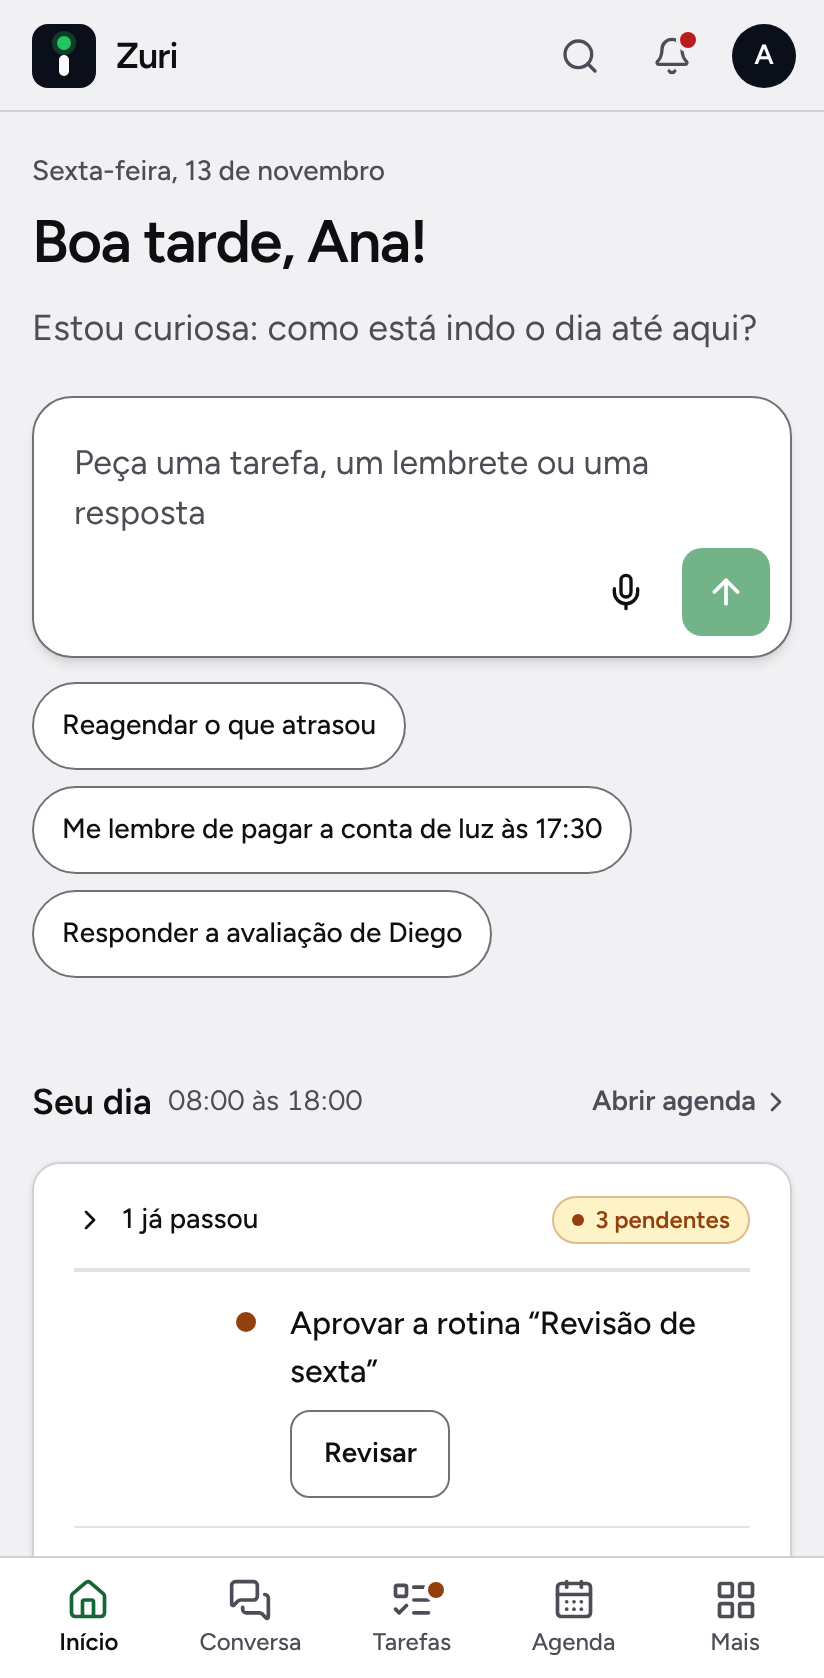
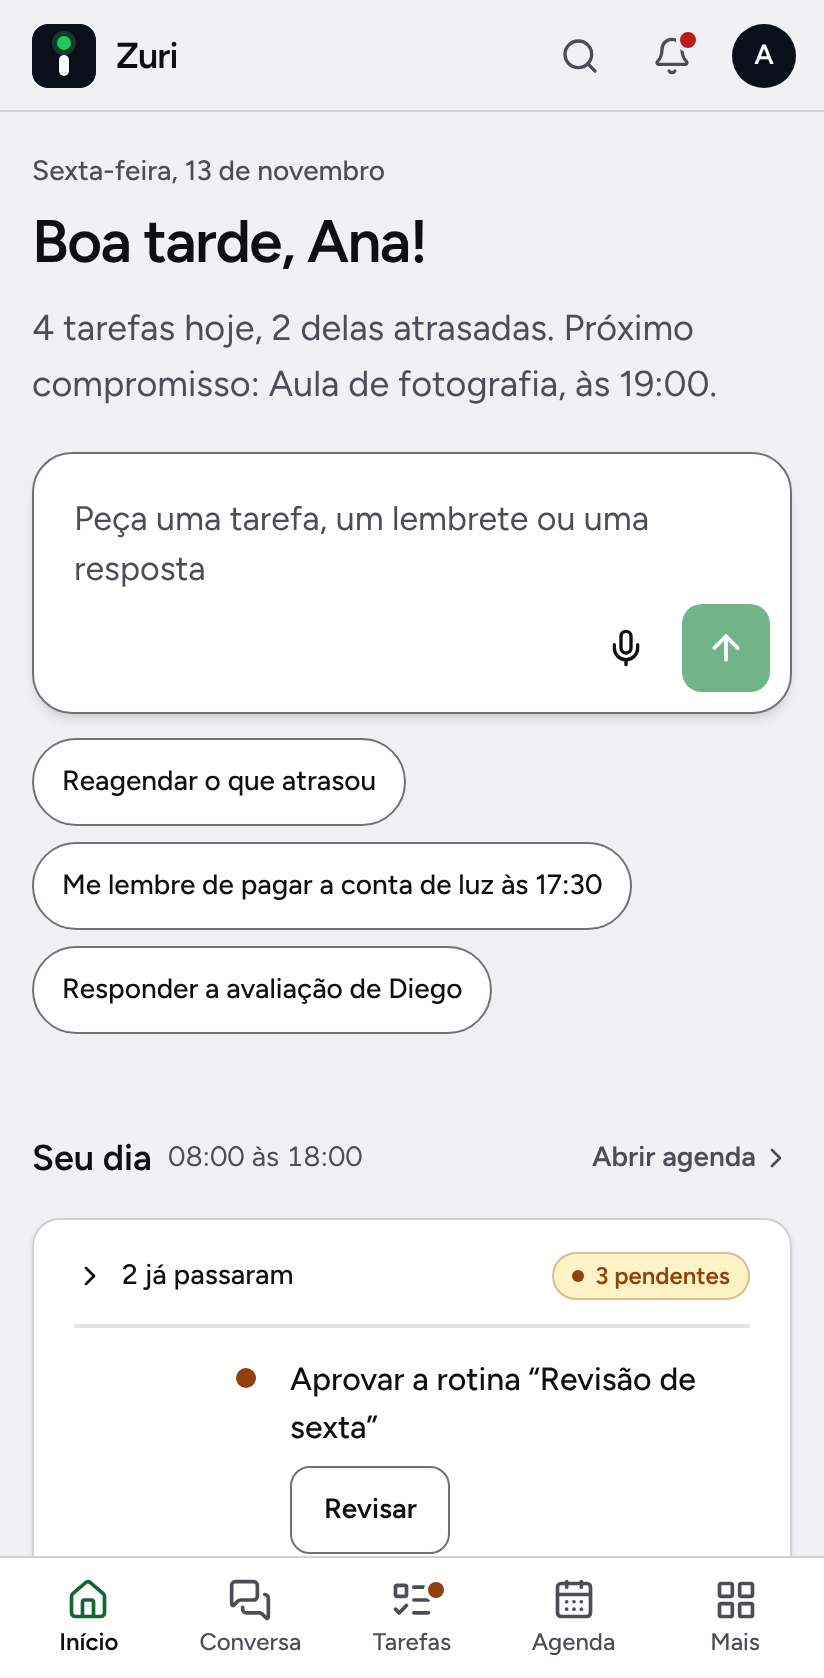
feat(inicio): resumo do dia sob o cumprimento e capturas novas (S22)
Claude-Session: https://claude.ai/code/session_012XDDEf5uAMwFYCarA1vLvU

diff --git a/apps/web/src/pages/home/DayCard.tsx b/apps/web/src/pages/home/DayCard.tsx
@@ -46,7 +46,14 @@ function useWindow() {
  * owner stays on top. The list arranges itself again every 30 seconds without
  * taking the focus from whoever is using the keyboard.
  */
-export function DayCard({ automations, onNewDay }: { automations: readonly Automation[]; onNewDay: () => void }) {
+/** What the line under the greeting says about today (PR S22): the open tasks, how many are late, the next event. */
+export interface DaySummary {
+  tasks: number;
+  late: number;
+  next: { title: string; at: number } | null;
+}
+
+export function DayCard({ automations, onNewDay, onSummary }: { automations: readonly Automation[]; onNewDay: () => void; onSummary?: (summary: DaySummary | null) => void }) {
   const { t, plural, locale, timeZone } = useI18n();
   const qc = useQueryClient();
   const pastId = useId();
@@ -115,6 +122,23 @@ export function DayCard({ automations, onNewDay }: { automations: readonly Autom
 
   const live = dayItems({ tasks: (tasks.data?.tasks ?? []).filter((task) => task.status !== "done"), events: events.data?.events ?? [], automations }, now, timeZone);
   const liveKeys = new Set(live.map((item) => item.key));
+
+  // The summary from the same lists, told to the page only when it changes (and only once the tasks are read).
+  const nowMs = now.getTime();
+  const openTasks = live.filter((item) => item.kind === "task");
+  const nextEvent = live.filter((item) => item.kind === "event" && item.at !== null && item.at > nowMs && localDate(item.at, timeZone) === today).sort((a, b) => (a.at ?? 0) - (b.at ?? 0))[0];
+  const summary: DaySummary | null = tasks.isSuccess
+    ? {
+        tasks: openTasks.length,
+        late: openTasks.filter((item) => item.daysLate > 0 || (item.at !== null && item.at < nowMs)).length,
+        next: nextEvent?.at ? { title: nextEvent.title, at: nextEvent.at } : null,
+      }
+    : null;
+  const summaryKey = JSON.stringify(summary);
+  // biome-ignore lint/correctness/useExhaustiveDependencies: the key stands for the summary, so a redraw with the same day tells nothing.
+  useEffect(() => {
+    onSummary?.(summary);
+  }, [summaryKey, onSummary]);
   // A task marked done here hides the list's copy; one unmarked shows from here only until the list has it again.
   const done = new Set([...marked].filter(([, entry]) => entry.done).map(([key]) => key));
   const items = [...live.filter((item) => !done.has(item.key)), ...[...marked].filter(([key, entry]) => entry.done || !liveKeys.has(key)).map(([, entry]) => entry.item)];

diff --git a/apps/web/src/pages/home/HomeBody.tsx b/apps/web/src/pages/home/HomeBody.tsx
@@ -12,7 +12,7 @@ import { api } from "../../lib/api.ts";
 import { dueInputs } from "../../lib/due.ts";
 import { addMessages, useI18n } from "../../lib/i18n.tsx";
 import { dayOffset } from "../../lib/recents.ts";
-import { DayCard, useDayWindow } from "./DayCard.tsx";
+import { DayCard, type DaySummary, useDayWindow } from "./DayCard.tsx";
 
 // Loaded on demand by the home page, with its pt-BR texts (rule P11).
 addMessages(ptBRHome);
@@ -36,18 +36,33 @@ export function HomeBody({ greetingSlot }: { greetingSlot: ReactNode }) {
   // At midnight "Amanhã" is another day: the lists under this one are drawn again.
   const [, turn] = useState(0);
   const newDay = useCallback(() => turn((count) => count + 1), []);
+  const [day, setDay] = useState<DaySummary | null>(null);
   return (
     <>
-      <Greeting placeholder={greetingSlot} />
+      <Greeting placeholder={greetingSlot} summary={useSummaryLine(day)} />
       <Ask />
       <Block title={t("web.home.day.title")} note={window} link={<More to="/agenda" label={t("web.home.day.agenda")} />}>
-        <DayCard automations={list} onNewDay={newDay} />
+        <DayCard automations={list} onNewDay={newDay} onSummary={setDay} />
       </Block>
       <Block title={t("web.home.next.title")} link={<More to="/tarefas" label={t("web.home.next.link")} />}>
         <NextDays automations={list} />
       </Block>
     </>
   );
+}
+
+/** "4 tarefas hoje, 1 delas atrasada. Próximo compromisso: Vistoria, às 09:00." Null on a day with nothing: the agent's line stays. */
+function useSummaryLine(day: DaySummary | null): string | null {
+  const { t, plural, timeZone } = useI18n();
+  if (!day) return null;
+  const parts: string[] = [];
+  if (day.tasks > 0) {
+    if (day.late === 0) parts.push(plural("web.home.summary.tasks", day.tasks));
+    else if (day.late === day.tasks) parts.push(plural("web.home.summary.lateAll", day.late));
+    else parts.push(plural("web.home.summary.lateSome", day.late, { total: day.tasks }));
+  }
+  if (day.next) parts.push(t("web.home.summary.event", { title: day.next.title, time: dueInputs(new Date(day.next.at).toISOString(), timeZone).time }));
+  return parts.length ? parts.join(" ") : null;
 }
 
 /** The text of each kind of suggestion: always the interface's own, with the server's blanks. */

diff --git a/apps/web/src/components/Greeting.tsx b/apps/web/src/components/Greeting.tsx
@@ -28,11 +28,11 @@ function useNow(timeZone: string): Date {
 /**
  * The home page's title: the day, good morning, afternoon or evening by the owner's
  * clock (their zone, not the device's), with their name when they gave one,
- * and a line in the agent's voice that changes every day.
+ * and a line in the agent's voice that changes every day, or the day's summary when it has one.
  */
 // The placeholder comes from the page: importing ui.tsx here would make the bundler split it
 // out of the first load into a shared chunk (armadilhas.md, "Pacote da interface").
-export function Greeting({ placeholder }: { placeholder: ReactNode }) {
+export function Greeting({ placeholder, summary }: { placeholder: ReactNode; summary?: string | null }) {
   const { t, locale, timeZone } = useI18n();
   // Same query as the session's: already in memory, no second request.
   const settings = useQuery({ queryKey: SETTINGS_KEY, queryFn: () => api<Settings>("/settings"), staleTime: 5 * 60_000 });
@@ -52,7 +52,12 @@ export function Greeting({ placeholder }: { placeholder: ReactNode }) {
     <header className="mb-5 motion-safe:animate-rise">
       <p className="mb-1.5 text-sm font-medium text-fg-muted first-letter:uppercase">{date}</p>
       <h1 className="text-3xl leading-tight font-semibold tracking-tight break-words md:text-4xl">{name ? t(titles.named, { name }) : t(titles.plain)}</h1>
-      {lineKey && <p className="mt-2.5 max-w-[56ch] text-lg text-fg-muted">{t(lineKey)}</p>}
+      {/* The day in one line when it has something (PR S22), otherwise the agent's line of the day. */}
+      {summary ? (
+        <p className="mt-2.5 max-w-[56ch] text-lg text-fg-muted">{summary}</p>
+      ) : (
+        lineKey && <p className="mt-2.5 max-w-[56ch] text-lg text-fg-muted">{t(lineKey)}</p>
+      )}
     </header>
   );
 }

diff --git a/tests/e2e/nova-ui.spec.ts b/tests/e2e/nova-ui.spec.ts
@@ -94,6 +94,23 @@ test("a review without a name reads as the new review", async ({ page }) => {
   await expect(page.getByRole("list", { name: "Sugestões a partir do seu dia" }).getByRole("button")).toHaveText(["Responder a avaliação nova"]);
 });
 
+test("the line under the greeting sums up the day, and keeps Zuri's line on a day with nothing", async ({ page }) => {
+  // Frozen at 10:00 in São Paulo, so "today" and "late" are the same for the page and for this test.
+  const now = new Date("2026-11-13T13:00:00Z");
+  await page.clock.setFixedTime(now);
+  const task = (id: string, dueAt: string) => ({ id, title: `Tarefa ${id}`, description: "", status: "todo", priority: "medium", dueAt, projectId: null, createdAt: dueAt, updatedAt: dueAt, completedAt: null });
+  let tasks = [task("a", "2026-11-12T15:00:00.000Z"), task("b", "2026-11-13T20:00:00.000Z"), task("c", "2026-11-13T21:00:00.000Z")];
+  await page.route(/\/api\/tasks\?(.*&)?view=today/, (route) => route.fulfill({ json: { tasks } }));
+  await openHome(page);
+  const lede = page.locator("header p.text-lg");
+  await expect(lede).toHaveText("3 tarefas hoje, uma delas atrasada.");
+  tasks = [];
+  await page.reload();
+  await expect(page.getByRole("heading", { name: "Seu dia" })).toBeVisible();
+  await expect(lede).not.toHaveText(/tarefas? hoje|atrasada/);
+  await expect(lede).not.toBeEmpty();
+});
+
 test("the home page shows no suggestions when the server has none or fails", async ({ page }) => {
   await page.route("**/api/home/suggestions", (route) => route.fulfill({ status: 500, json: { code: "INTERNAL_ERROR", message: "x" } }));
   await openHome(page);

diff --git a/packages/shared/i18n/pt-BR-home.ts b/packages/shared/i18n/pt-BR-home.ts
@@ -6,6 +6,13 @@ export const ptBRHome = {
   "web.home.placeholder": "Peça uma tarefa, um lembrete ou uma resposta",
   "web.home.send": "Enviar para a Zuri",
   "web.home.ideas": "Sugestões a partir do seu dia",
+  "web.home.summary.tasks.one": "Uma tarefa hoje.",
+  "web.home.summary.tasks.other": "{count} tarefas hoje.",
+  "web.home.summary.lateAll.one": "Uma tarefa atrasada.",
+  "web.home.summary.lateAll.other": "{count} tarefas atrasadas.",
+  "web.home.summary.lateSome.one": "{total} tarefas hoje, uma delas atrasada.",
+  "web.home.summary.lateSome.other": "{total} tarefas hoje, {count} delas atrasadas.",
+  "web.home.summary.event": "Próximo compromisso: {title}, às {time}.",
   "web.home.idea.late": "Reagendar o que atrasou",
   "web.home.idea.bill": "Me lembre de pagar {name} às {time}",
   "web.home.idea.review": "Responder a avaliação de {name}",

diff --git a/packages/shared/i18n/en.ts b/packages/shared/i18n/en.ts
@@ -109,6 +109,13 @@ export const en: Messages = {
   "web.home.placeholder": "Ask for a task, a reminder or an answer",
   "web.home.send": "Send to Zuri",
   "web.home.ideas": "Suggestions from your day",
+  "web.home.summary.tasks.one": "One task today.",
+  "web.home.summary.tasks.other": "{count} tasks today.",
+  "web.home.summary.lateAll.one": "One task late.",
+  "web.home.summary.lateAll.other": "{count} tasks late.",
+  "web.home.summary.lateSome.one": "{total} tasks today, one of them late.",
+  "web.home.summary.lateSome.other": "{total} tasks today, {count} of them late.",
+  "web.home.summary.event": "Next up: {title}, at {time}.",
   "web.home.idea.late": "Reschedule what's late",
   "web.home.idea.bill": "Remind me to pay {name} at {time}",
   "web.home.idea.review": "Reply to {name}'s review",

diff --git a/apps/agent/src/agent/zuri-agent.ts b/apps/agent/src/agent/zuri-agent.ts
@@ -1260,7 +1260,10 @@ export class ZuriAgent extends Agent<WorkerEnv> {
         state,
         timeZone: () => settings.field("timeZone"),
         review: () => reviews.firstWaiting(),
+        // Local development answers with the stand-in model, which can't order anything: no call, and the
+        // day's request count (the usage card) stays what the owner did.
         ai: () =>
+          !this.development() &&
           homeOrderAllowed({
             lockdown: auth.lockdown.active(),
             paidModel: isPaidModel(this.chosenModel("aiModel")) || isPaidModel(this.chosenModel("aiFallbackModel")),

diff --git a/docs/planos/implementacao-frontend-sinal.md b/docs/planos/implementacao-frontend-sinal.md
@@ -490,12 +490,13 @@ Diferenças da S22 (sugestões do Início) para o plano e o protótipo, para as 
 
 - **Sem migration.** O contador por tipo e a ordem do dia são duas linhas de `zur_settings` (`home_suggestion_uses`, `home_suggestion_order`), fora do backup. O plano antigo pedia a tabela `zur_suggestion_stats`; com sete tipos, uma linha basta.
 - **A IA ordena na primeira abertura do Início do dia**, não dentro do resumo da manhã: o resumo não chama IA, e assim um dia sem o Início aberto não gasta Neurons. A marca do dia é gravada antes da chamada, então falha ou demora não tentam de novo no mesmo dia (P7); a ordem nova vale a partir da abertura seguinte.
-- **A IA recebe só contagens e ids** (dia da semana, tarefas atrasadas e de hoje até 20, toques por tipo), nunca título, nome ou texto. Não roda em bloqueio, com modelo pago escolhido ou sem folga no teto do dia.
+- **A IA recebe só contagens e ids** (dia da semana, tarefas atrasadas e de hoje até 20, toques por tipo), nunca título, nome ou texto. Não roda em bloqueio, com modelo pago escolhido, sem folga no teto do dia nem no desenvolvimento local (a IA simulada não ordena). A chamada do dia conta como um pedido no uso de hoje.
 - **O agente aparece em Configurações › Assistente** como "Sugestões do Início", com as regras só para ler, como as conferências.
 - **Tipos do protótipo:** `late`, `bill`, `review`, `week`, `today`, `rest` e `tomorrow`. "Ideias de presente" e "Resumo da semana" do plano antigo ficaram fora. "Organizar a semana" segue a regra do plano (segunda, ou domingo a partir das 18:00), não toda manhã como no protótipo.
 - **Sem a chave "Sugestões no Início" nem "Esquecer o que aprendi"**: não estão no protótipo.
 - **Tocar só preenche o campo e põe o foco nele** (antes, a ideia abria a conversa e enviava). O que já estava escrito fica, com a sugestão depois, como na voz. A avaliação sem nome vira "Responder a avaliação nova"; a com nome diz "de {nome}" (o protótipo dizia "do Pedro").
 - **Conta:** tarefa que começa com "Pagar" (ou "Pay"), prazo hoje e lembrete meia hora antes ainda à frente.
+- **Resumo do dia sob o cumprimento** (o "Quatro tarefas hoje, uma delas atrasada" do protótipo): sai das mesmas listas do "Seu dia", sem leitura a mais, com números em algarismos e o próximo compromisso de hoje. Dia sem tarefa nem compromisso mostra a frase da Zuri (opção recomendada ao Pablo em 13/11; se ele escolher outra, muda aqui).
 
 Diferenças da S13 (servidor do consumo), para a S16 não as desfazer:
 

diff --git a/changelog/nao-lancado/sinal-22-sugestoes-do-inicio.md b/changelog/nao-lancado/sinal-22-sugestoes-do-inicio.md
@@ -3,6 +3,7 @@
 
 - **Sugestões do Início pelo seu dia**: embaixo do campo do Início aparecem até três sugestões tiradas do que está acontecendo. "Reagendar o que atrasou" quando há tarefa atrasada, "Me lembre de pagar a luz às 17:30" quando uma conta vence hoje, "Responder a avaliação de Pedro" quando uma avaliação espera resposta, "Organizar a semana" na segunda e a pergunta da hora ("O que tenho hoje?", "O que falta para hoje?", "O que tenho amanhã?").
 - As sugestões que você mais toca sobem. Uma vez por dia a IA pode mudar a ordem, mas só escolhe entre as sugestões que já existem: ela nunca escreve o texto e não vê títulos nem nomes. Sem IA, as regras sozinhas funcionam.
+- A frase embaixo do cumprimento resume o dia quando há o que contar ("4 tarefas hoje, 2 delas atrasadas. Próximo compromisso: Aula de fotografia, às 19:00."). Num dia sem tarefas nem compromissos, continua a frase da Zuri.
 - O agente **Sugestões do Início** aparece em Configurações › Assistente, com as regras dele.
 
 ### Alterado
